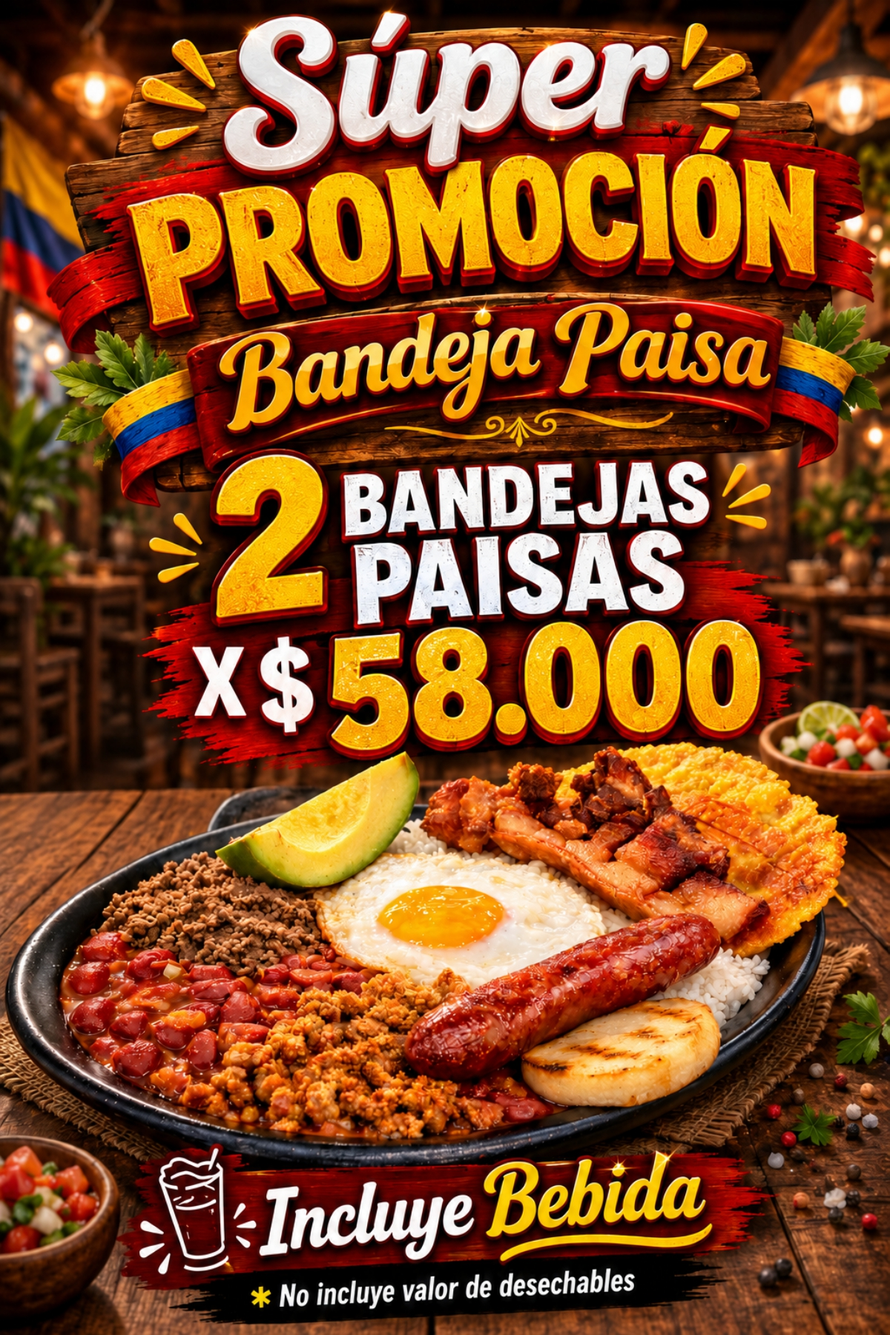
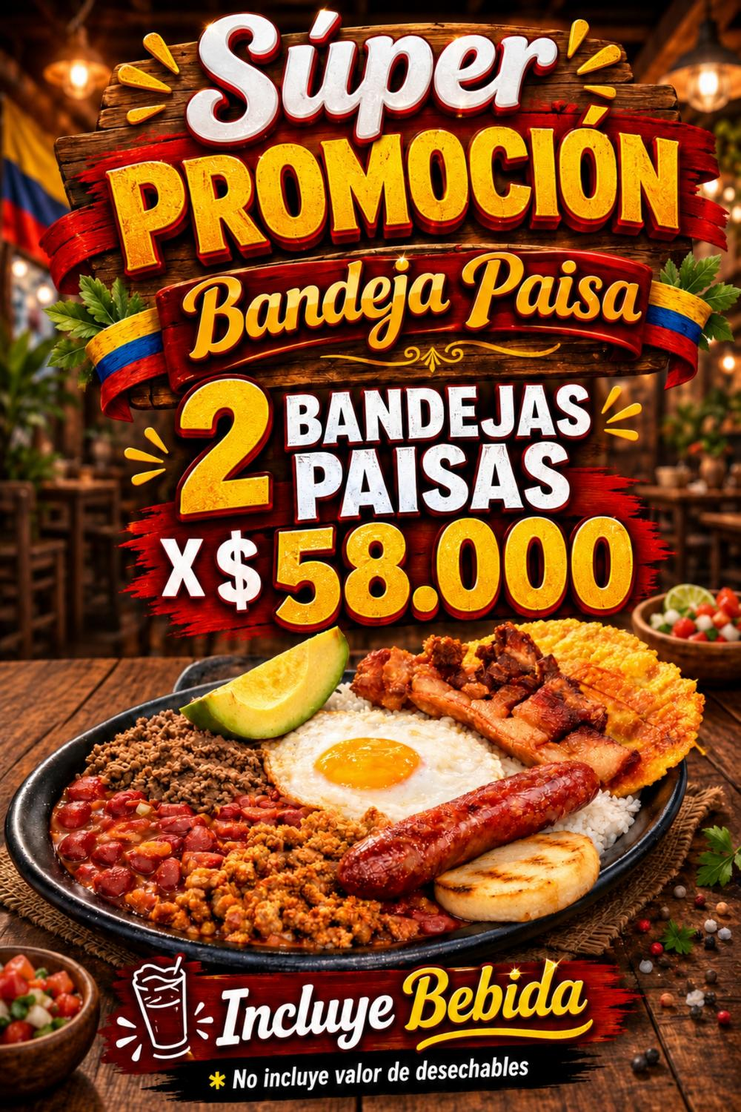
feat: script compress.js + comprimir imágenes de menú (~90% reducción)

Changed region(s): [[0.62, 0.8893, 0.651, 0.92]]

diff --git a/compress.js b/compress.js
@@ -1,0 +1,42 @@
+const sharp = require('sharp');
+const fs = require('fs');
+const path = require('path');
+
+const NEGOCIOS_DIR = path.join(__dirname, 'assets', 'negocios');
+const MAX_SIZE_KB = 300;
+const MAX_WIDTH = 1000;
+const QUALITY = 75;
+
+async function processDir(dir) {
+  const entries = fs.readdirSync(dir, { withFileTypes: true });
+  for (const entry of entries) {
+    const fullPath = path.join(dir, entry.name);
+    if (entry.isDirectory()) {
+      await processDir(fullPath);
+      continue;
+    }
+    if (!/\.(jpg|jpeg|png)$/i.test(entry.name)) continue;
+
+    const stats = fs.statSync(fullPath);
+    const sizeKB = Math.round(stats.size / 1024);
+
+    if (sizeKB <= MAX_SIZE_KB) {
+      console.log(`  OK     ${path.relative(NEGOCIOS_DIR, fullPath)} (${sizeKB} KB)`);
+      continue;
+    }
+
+    const isPng = /\.png$/i.test(entry.name);
+    const tmpPath = fullPath + '.tmp';
+    const pipeline = sharp(fullPath).resize({ width: MAX_WIDTH, withoutEnlargement: true });
+    await (isPng ? pipeline.png({ compressionLevel: 9 }) : pipeline.jpeg({ quality: QUALITY })).toFile(tmpPath);
+
+    fs.renameSync(tmpPath, fullPath);
+    const after = Math.round(fs.statSync(fullPath).size / 1024);
+    console.log(`  FIXED  ${path.relative(NEGOCIOS_DIR, fullPath)}: ${sizeKB} KB → ${after} KB (−${sizeKB - after} KB)`);
+  }
+}
+
+console.log('Comprimiendo imágenes de menú...\n');
+processDir(NEGOCIOS_DIR)
+  .then(() => console.log('\nListo.'))
+  .catch(err => { console.error(err); process.exit(1); });
